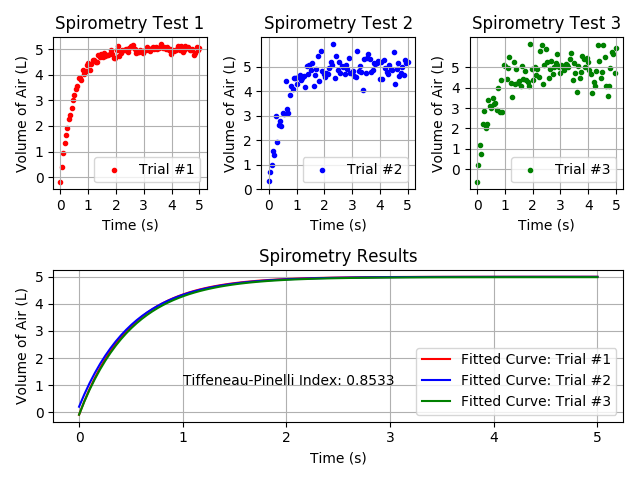
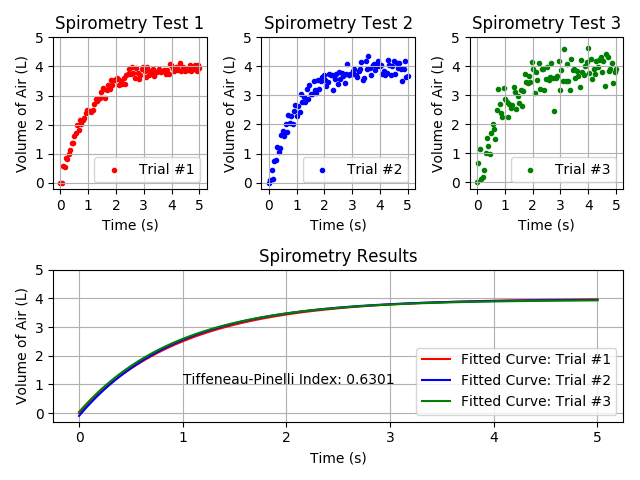
Finished Lung Capacity Algorithm

diff --git a/lung_capacity.py b/lung_capacity.py
@@ -13,6 +13,12 @@ def func(x, a, b, c):
 
 # Output summary report.
 def output(yc1, yc2, yc3, tpi, ci):
+
+    # Average values for FEV1 & FVC.
+    a_fev1 = round(float((yc1[FEV1_INDEX] + yc2[FEV1_INDEX] + yc3[FEV1_INDEX])/3), 4)
+    a_fvc = round(float((yc1[FVC_INDEX] + yc2[FVC_INDEX] + yc3[FVC_INDEX])/3), 4)
+
+    # Output statements.
     print('')
     print('=== SUMMARY REPORT ===')
     print('')
@@ -25,25 +31,42 @@ def output(yc1, yc2, yc3, tpi, ci):
     print('FEV1 Trial #3:', '%.4f' % yc3[FEV1_INDEX], 'L')
     print('FVC Trial #3 :', '%.4f' % yc3[FVC_INDEX], 'L')
     print('')
+    print('Average FEV1: ', '%.4f' % a_fev1, 'L')
+    print('Average FVC:  ', '%.4f' % a_fvc, 'L')
     print('Average Tiffeneau-Pinelli Index: ', '%.4f' % tpi)
-    print('')
     print('95% Confidence Interval: ' + '[%.4f' % ci[0] + ', ' +  '%.4f]' % ci[1])
     print('')
+    ratio_check(tpi, ci[0])
     print('=== SUMMARY REPORT ===')
     print('')
+
+# Check ratios.
+def ratio_check(tpi, lci):
+    if tpi > 0.7 and lci > 0.7:
+        print('COPD Status: Safe')
+        print('Diagnosis from pulmonary expert is unnecessary.')
+        print('')
+    elif tpi > 0.7 and lci < 0.7:
+        print('COPD Status: At Risk')
+        print('Please visit a pulmonary expert for further diagnosis and testing.')
+        print('')
+    else: # doesn't consider lci > 0.7 and lci < 0.7.
+        print('COPD Status: Inflicted')
+        print('Please wait for further instructions from doctors in Australia.')
+        print('')
 
 # ===== END FUNCTIONS ===== #
 
 # Define amount of data points and initial curve.
 x = np.linspace(0, 5, 100)
-y = func(x, 5, 5, 2)
+y = func(x, 4, 4, 1)
 
 # Generate noise.
-yn1 = y + np.random.normal(0,0.1,len(x))
+yn1 = y - np.random.normal(0,0.1,len(x))
 yn1[0] = 0
 yn2 = y + np.random.normal(0,0.2,len(x))
 yn2[0] = 0
-yn3 = y + np.random.normal(0,0.4,len(x))
+yn3 = y - np.random.normal(0,0.4,len(x))
 yn3[0] = 0
 
 # Hash defines go here.
@@ -117,6 +140,6 @@ ax.legend()
 # Show figure.
 # plt.show()
 
-# # Save figure.
-# plt.savefig('output/lung_capacity.png')
+# Save figure.
+plt.savefig('output/lung_capacity.png')
 plt.close(fig)
